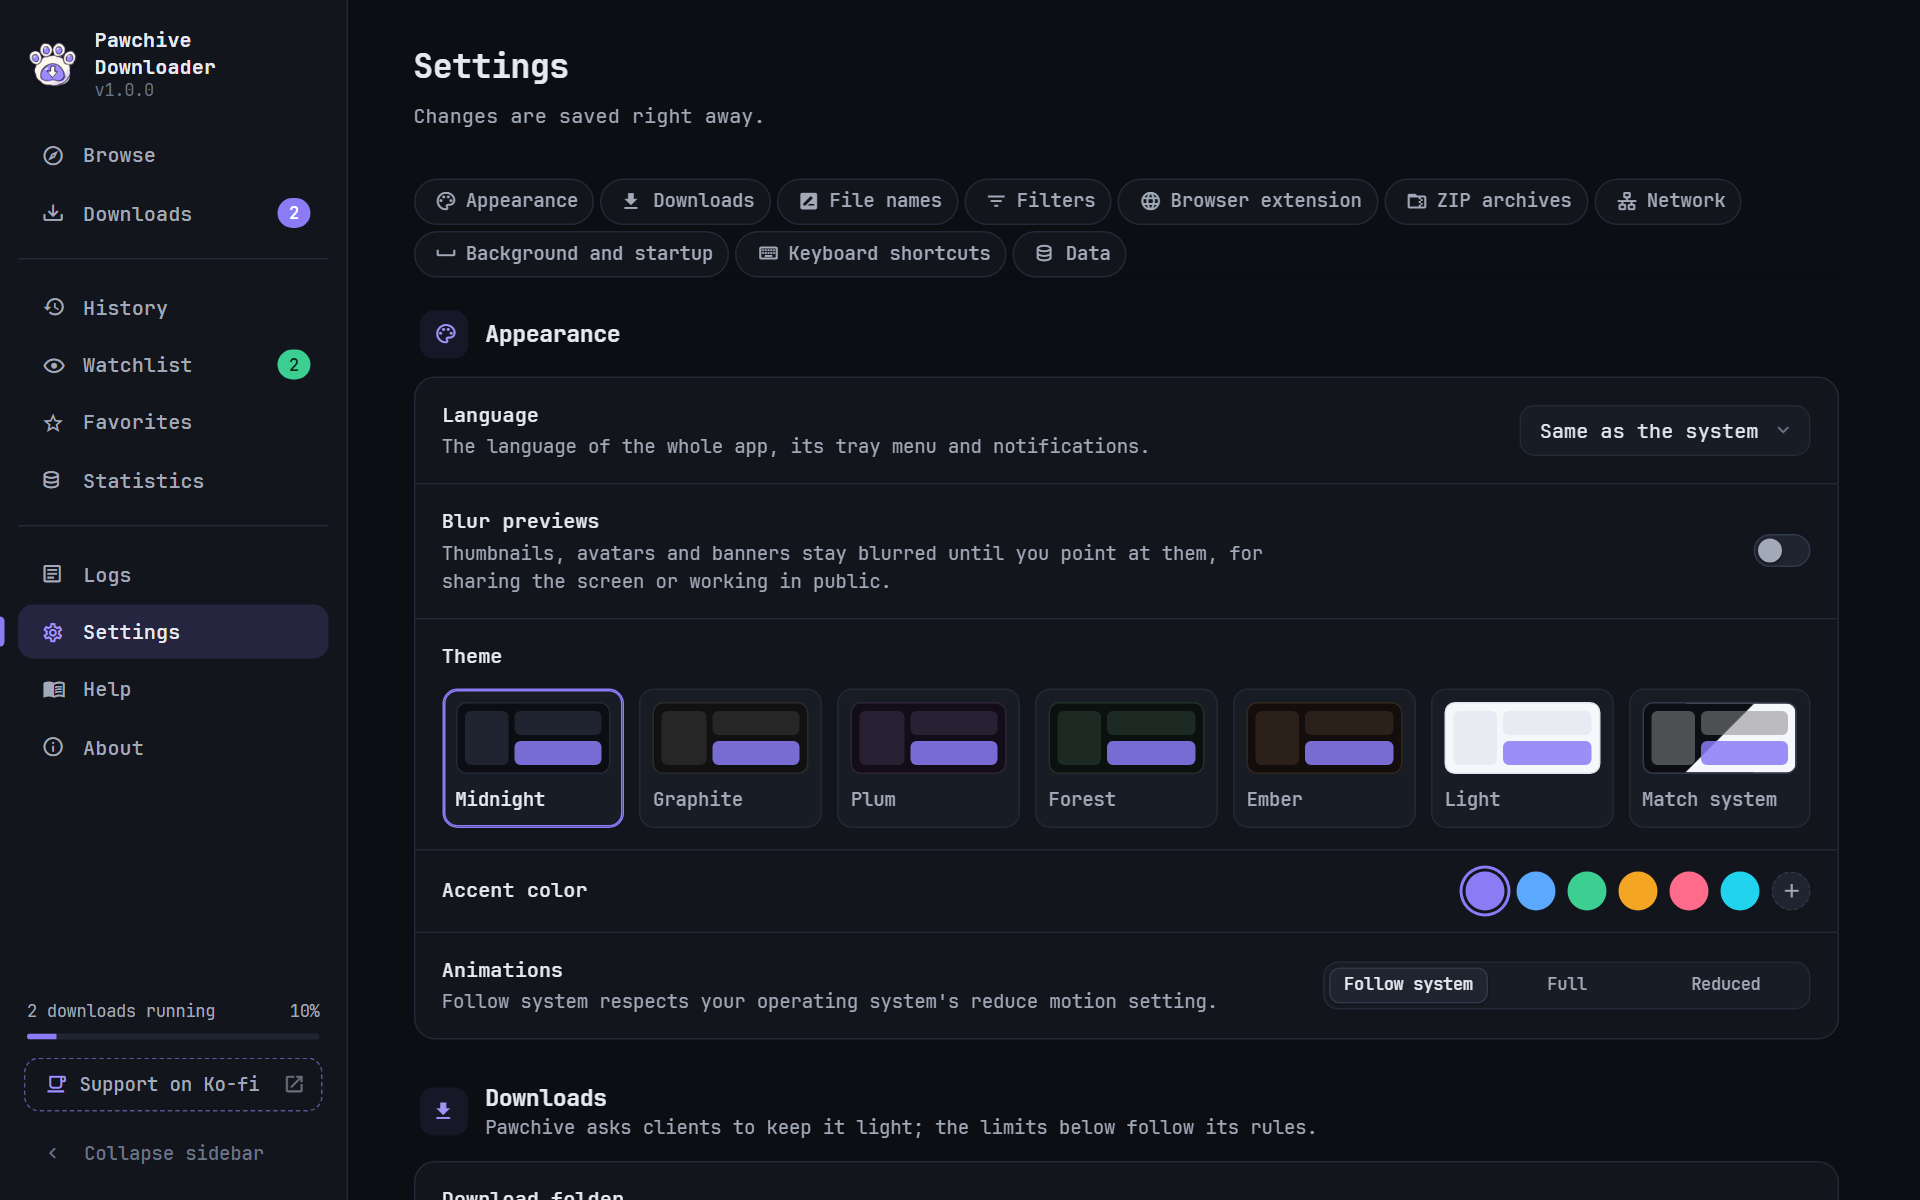
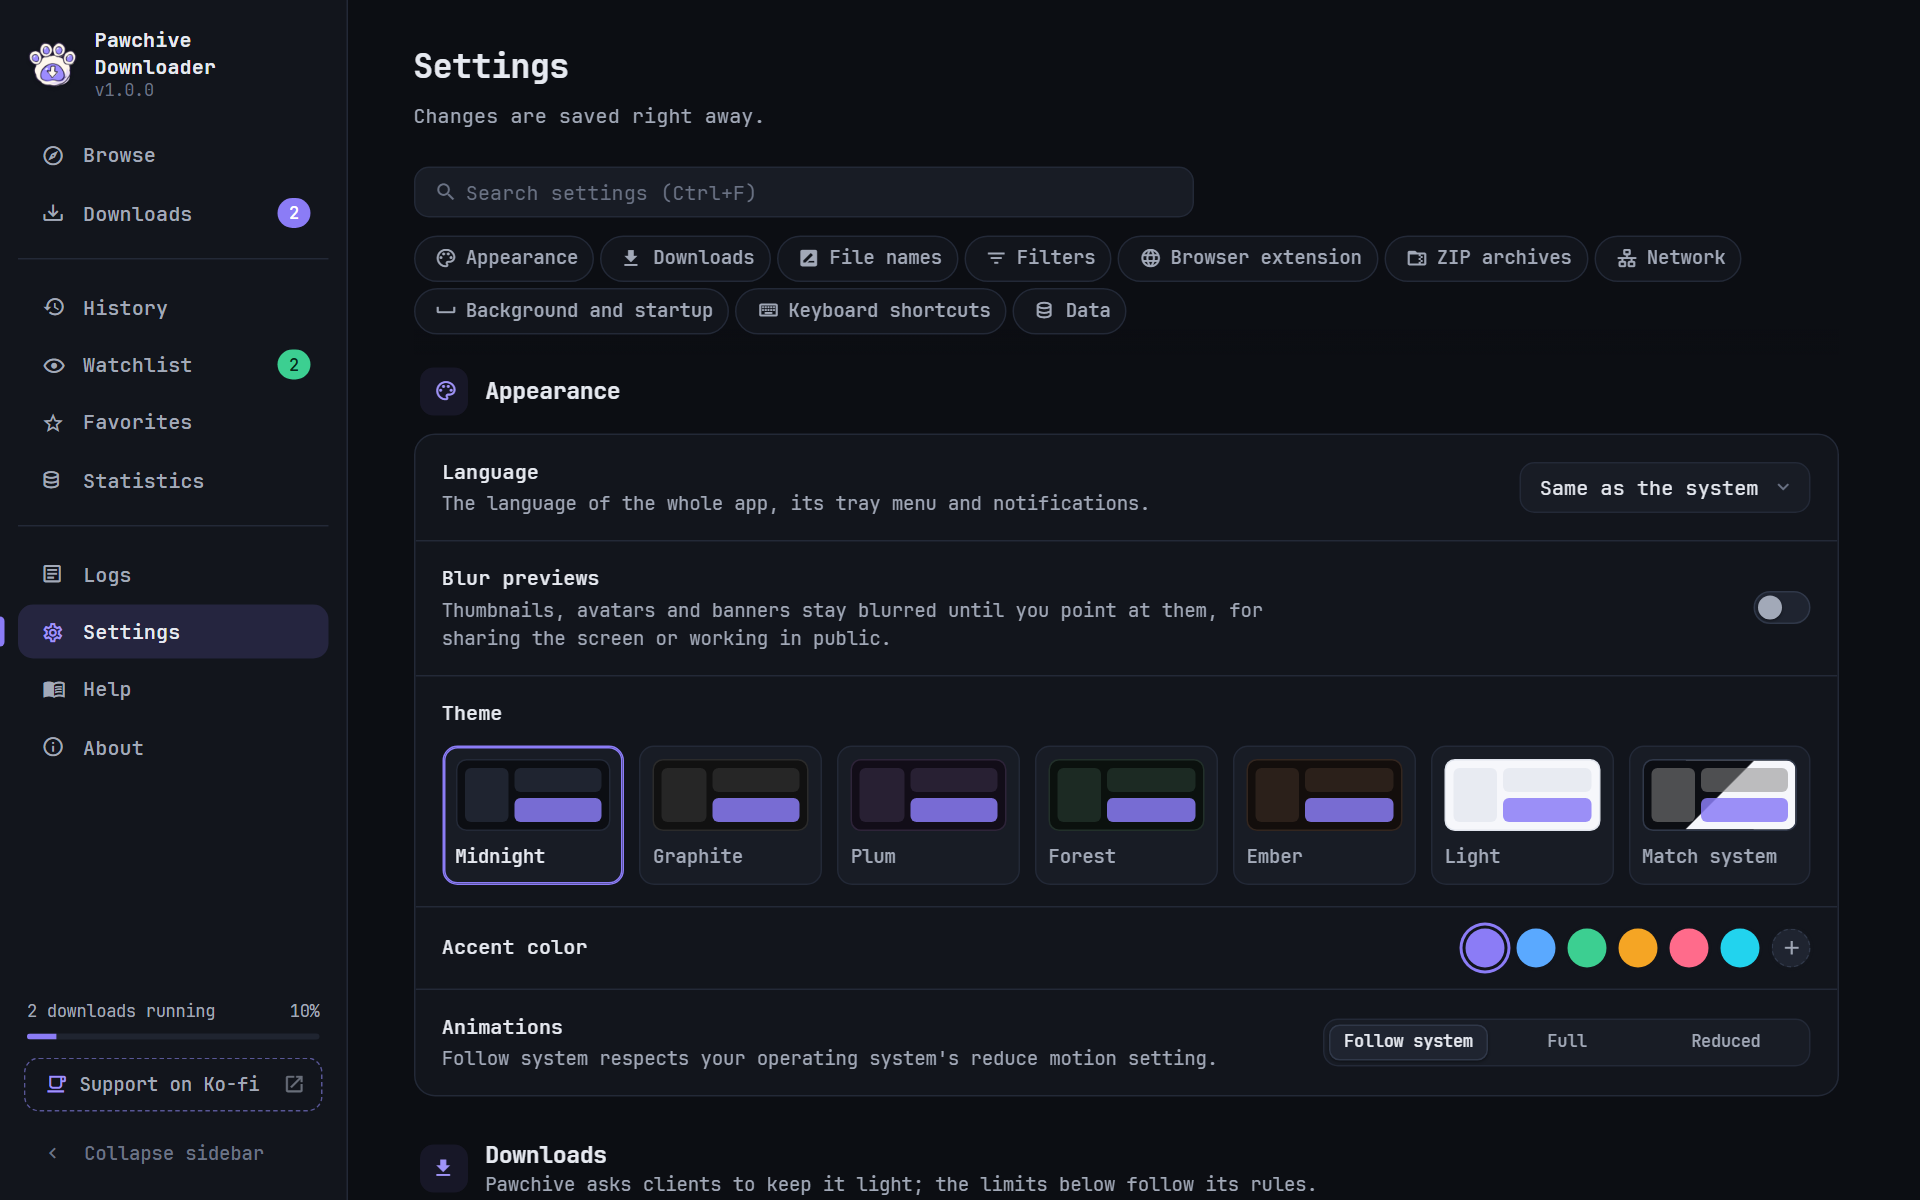
Document 2.0.0's last changes and refresh the screenshots

diff --git a/README.md b/README.md
@@ -81,23 +81,23 @@ How it compares with every other Pawchive, Kemono and Coomer downloader: [docs/C
 
 **Downloading**
 
-| Feature                    | What it does                                                                                                                                                                             |
-| -------------------------- | ---------------------------------------------------------------------------------------------------------------------------------------------------------------------------------------- |
-| File picking               | Select files or posts by click and Shift-click, filter by type (images, videos, audio, archives, documents, text), invert, hide what you already have.                                   |
-| Whole creators             | Download everything, a date range, a site search, or just the posts you tick. Large creators are scanned page by page while downloads already run.                                       |
-| Filters                    | Only posts with certain words, skip posts or files with others (plain or `/regex/`), the newest N posts, file types to keep or skip. Defaults in Settings, changeable for each download. |
-| Outside hosts              | Files a post shares on Mega (files and folders, decrypted on your computer), Google Drive (files and folders), Dropbox, Pixeldrain, GoFile and MediaFire are downloaded with the post.   |
-| Unpacking                  | Downloaded ZIP archives can be unpacked next to themselves, trying the passwords the post mentions; nothing can be written outside the folder.                                           |
-| Batch queue and URL import | Paste any number of links, import a `.txt` file or drag links onto the window. Each creator becomes one download; posts of the same creator are grouped.                                 |
-| Three formats              | Separate files in a folder per post, one ZIP archive per post (ZIP64, no size limit, optional parts), or thumbnails only.                                                                |
-| Resumable downloads        | Files are written as `.part` files and continue with HTTP Range requests after a pause, a dropped connection or a restart of the app.                                                    |
-| Checksums                  | Every finished file is checked against the SHA-256 in its address and downloaded again if it does not match.                                                                             |
-| Preview-only files         | When Pawchive only keeps a preview, the full file is fetched through the temporary link the post page offers.                                                                            |
-| Dead media servers         | When a site answers but its media servers do not, the app notices within seconds instead of waiting, can save thumbnails instead, and tries the files again later.                       |
-| Duplicate skipping         | Files are recognised by content hash, across posts, creators and sites, and skipped when you already have them.                                                                          |
-| Post text and metadata     | Save the description as `content.txt` and/or `content.html`, a `post.json`, `links.txt` with outside links and passwords, comments with their replies, and a creator's announcements.    |
-| Clean names                | Remove words such as `[HD]` from titles and file names.                                                                                                                                  |
-| Fast mode                  | One switch: every file type, your saved options, no per-download choices.                                                                                                                |
+| Feature                    | What it does                                                                                                                                                                                                                     |
+| -------------------------- | -------------------------------------------------------------------------------------------------------------------------------------------------------------------------------------------------------------------------------- |
+| File picking               | Select files or posts by click and Shift-click, filter by type (images, videos, audio, archives, documents, text), invert, hide what you already have.                                                                           |
+| Whole creators             | Download everything, a date range, a site search, or just the posts you tick. Large creators are scanned page by page while downloads already run.                                                                               |
+| Filters                    | Only posts with certain words, skip posts or files with others (plain or `/regex/`), the newest N posts, file types to keep or skip. Defaults in Settings, changeable for each download.                                         |
+| Outside hosts              | Files a post shares on Mega (files and folders, decrypted on your computer), Google Drive (files and folders), Dropbox, Pixeldrain, GoFile and MediaFire are downloaded with the post.                                           |
+| Unpacking                  | Downloaded ZIP archives can be unpacked next to themselves, trying the passwords the post mentions; nothing can be written outside the folder.                                                                                   |
+| Batch queue and URL import | Paste any number of links, import a `.txt` file or drag links onto the window. Each creator becomes one download; posts of the same creator are grouped.                                                                         |
+| Three formats              | Separate files in a folder per post, one ZIP archive per post (ZIP64, no size limit, optional parts), or thumbnails only.                                                                                                        |
+| Resumable downloads        | Files are written as `.part` files and continue with HTTP Range requests after a pause, a dropped connection or a restart of the app.                                                                                            |
+| Checksums                  | Every finished file is checked against the SHA-256 in its address and downloaded again if it does not match.                                                                                                                     |
+| Preview-only files         | When Pawchive only keeps a preview, the full file is fetched through the temporary link the post page offers.                                                                                                                    |
+| Dead media servers         | Before a Kemono or Coomer download, the app checks the site's media server; when it is down you choose: cancel, thumbnails instead, or queue the full files for later. During downloads a dead server is noticed within seconds. |
+| Duplicate skipping         | Files are recognised by content hash, across posts, creators and sites, and skipped when you already have them.                                                                                                                  |
+| Post text and metadata     | Save the description as `content.txt` and/or `content.html`, a `post.json`, `links.txt` with outside links and passwords, comments with their replies, and a creator's announcements.                                            |
+| Clean names                | Remove words such as `[HD]` from titles and file names.                                                                                                                                                                          |
+| Fast mode                  | One switch: every file type, your saved options, no per-download choices.                                                                                                                                                        |
 
 **Managing**
 
@@ -122,15 +122,16 @@ How it compares with every other Pawchive, Kemono and Coomer downloader: [docs/C
 
 **Interface**
 
-| Feature        | What it does                                                                                                               |
-| -------------- | -------------------------------------------------------------------------------------------------------------------------- |
-| Nine languages | English, Japanese, Korean, Simplified Chinese, Spanish, Brazilian Portuguese, Russian, German and French, switchable live. |
-| Six themes     | Midnight, Graphite, Plum, Forest, Ember and Light, or Match system, with six accent colors or your own.                    |
-| Compact mode   | The sidebar folds to icons (Ctrl+B); tooltips float above everything and never get cut off.                                |
-| Privacy blur   | Thumbnails, avatars and banners stay blurred until pointed at, for sharing the screen or working in public.                |
-| Typography     | JetBrains Mono Nerd Font throughout; every icon comes from the font itself.                                                |
-| Keyboard       | Ctrl+L link bar, Ctrl+Shift+B batch, Ctrl+B sidebar, Ctrl+1 to Ctrl+9 pages, Ctrl+, settings.                              |
-| Network        | System proxy, no proxy, a custom HTTP, HTTPS or SOCKS5 proxy, or Tor; a total speed limit.                                 |
+| Feature         | What it does                                                                                                               |
+| --------------- | -------------------------------------------------------------------------------------------------------------------------- |
+| Nine languages  | English, Japanese, Korean, Simplified Chinese, Spanish, Brazilian Portuguese, Russian, German and French, switchable live. |
+| Six themes      | Midnight, Graphite, Plum, Forest, Ember and Light, or Match system, with six accent colors or your own.                    |
+| Compact mode    | The sidebar folds to icons (Ctrl+B); tooltips float above everything and never get cut off.                                |
+| Settings search | Find any setting by typing (Ctrl+F).                                                                                       |
+| Privacy blur    | Thumbnails, avatars and banners stay blurred until pointed at, for sharing the screen or working in public.                |
+| Typography      | JetBrains Mono Nerd Font throughout; every icon comes from the font itself.                                                |
+| Keyboard        | Ctrl+L link bar, Ctrl+Shift+B batch, Ctrl+B sidebar, Ctrl+1 to Ctrl+9 pages, Ctrl+, settings, Ctrl+F settings search.      |
+| Network         | System proxy, no proxy, a custom HTTP, HTTPS or SOCKS5 proxy, or Tor; a total speed limit.                                 |
 
 ## Screenshots
 

diff --git a/CHANGELOG.md b/CHANGELOG.md
@@ -23,9 +23,11 @@ The next generation: more sites, outside hosts and a lot of convenience.
   post, or one link at a time from a post's Links tab.
 - **Unpacking**: downloaded ZIP archives can be unpacked next to
   themselves, trying the passwords the post mentions.
-- **Dead media servers**: when a site answers but its media servers do not,
-  files fail within seconds instead of waiting for the network, the host is
-  skipped for a while, and a bar offers to save thumbnails instead.
+- **Dead media servers**: before a Kemono or Coomer download starts, one
+  tiny request checks the site's media server; when it does not answer, a
+  dialog offers to cancel, download thumbnails instead, or queue the full
+  files to retry later. During downloads such a server is noticed within
+  seconds instead of waiting for the network, and skipped for a while.
 - **Automatic retries** of failed files after a chosen time, up to three
   times.
 - **Browser bridge**: a paired browser extension can hand downloads to the
@@ -39,6 +41,9 @@ The next generation: more sites, outside hosts and a lot of convenience.
 - **Privacy**: blur previews until pointed at, and notifications without
   titles or names.
 - **Compact sidebar** (Ctrl+B) and tooltips that are never cut off.
+- **Open in Browse** on every download, history entry, favorite and
+  watched creator, to see where it came from again.
+- **Settings search** (Ctrl+F).
 - Help topics for all of the above.
 
 ### Fixed
